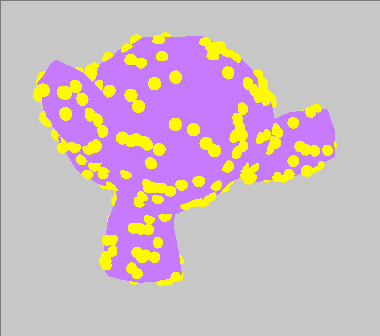
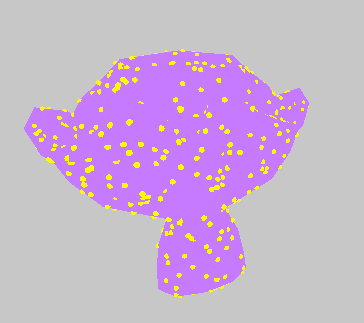
Documentation

Changed region(s): [[0.0604, 0.0929, 0.9066, 0.9288], [0.4835, 0.2477, 0.5137, 0.2786], [0.0, 0.0, 0.0302, 0.031]]

diff --git a/src/lib.rs b/src/lib.rs
@@ -1,48 +1,57 @@
 //! Given a target density, generate randomly sampled points on a mesh.
 //!
-//! This crate was built with Unity/C# bindings in mind. It's useful for sampling points for *static* meshes (i.e. not SkinnedMeshRenders).
+//! This crate was built with Unity/C# bindings in mind.
+//!
+//! Imagine, if you will, an animated human that is visually rendered with uniformly sampled points.
+//! This mesh needs to move dynamically, so that number and positions of the points need to change.
+//! The best way to do that is in a shader.
+//! This crate *doesn't* cover this use-case.
+//!
+//! *However,* suppose you want the animated human to walk in a room that is also rendered in uniformly sampled points.
+//! In that case, the room geometry is static.
+//! The sampled points never need to change.
+//! So, you could sample the points exactly once and use them later.
+//! That's what this crate is for.
 //!
 //! # Usage (native Rust)
 //!
 //! ```
 //! use tobj::{load_obj, GPU_LOAD_OPTIONS};
 //!
-//! use pincushion::sample_points_from_ppcm;
+//! use pincushion::{sample_points_from_ppm, Vertex, Triangle};
 //!
-//! fn get_obj(path: &str) -> (Vec<[f32; 3]>, Vec<[usize; 3]>) {
+//! fn get_obj(path: &str) -> (Vec<Vertex>, Vec<Triangle>) {
 //!     let obj = &load_obj(path, &GPU_LOAD_OPTIONS).unwrap().0[0].mesh;
-//!     let vertices = obj.positions.chunks_exact(3).map(|v| [v[0], v[1], v[2]]).collect::<Vec<[f32; 3]>>();
+//!     let vertices = obj.positions.chunks_exact(3).map(|v| [v[0], v[1], v[2]]).collect::<Vec<Vertex>>();
 //!     let triangles = obj.indices.chunks_exact(3).map(|triangle|
 //!         [triangle[0] as usize, triangle[1] as usize, triangle[2] as usize]
-//!     ).collect::<Vec<[usize; 3]>>();
+//!     ).collect::<Vec<Triangle>>();
 //!     (vertices, triangles)
 //! }
 //!
 //! fn main() {
 //!     let (vertices, triangles) = get_obj("tests/suzanne.obj");
 //!
-//!     // This, plus the volume, controls the number of points per centimeter.
-//!     // The volume of the mesh is assumed to be in meters squared.
-//!     let points_per_cm = 1.5;
+//!     // This, plus the volume, controls the number of points per square meter.
+//!     // The volume of the mesh is also assumed to be in square meters.
+//!     let points_per_m = 0.015;
 //!
 //!     // Sample the points.
-//!     let points = sample_points_from_ppcm(&vertices, &triangles, points_per_cm);
+//!     let points = sample_points_from_ppm(&vertices, &triangles, points_per_m);
 //! }
 //! ```
 //!
 //! # Usage (Unity)
 //!
-//! Add the C# scripts in this repo into your project. Then, add: `using Pincushion;`
+//! To add the codebase to your Unity project:
 //!
-//! To generate points, call `Vector3[] points = mesh.GetSampledPoints(pointsPerCm);` or `int size = mesh.GetSampledPoints(pointsPerCm, ref points);`.
+//! 1. Run: `cargo build --release --features ffi`
+//! 2. Copy into your project all .cs scripts in `cs/` plus the native library: `target/release/pincushion.so` (In Windows, it's `pincushion.dll`)
+//! 3. In your code, add: `using Pincushion;`
 //!
-//! The expected number of points is the product of the mesh volume and `pointsPerCm`.
-//! If you don't include `numPoints`, the output will match the expected number.
-//! If you do include `numPoints`, then `points.Length == numPoints`. This is the (slightly) faster option.
+//! To generate points, call `Vector3[] points = mesh.GetSampledPoints(pointsPerM);`
 //!
-//! To build a library that can be used in Unity/C#: `cargo build --release --features ffi`
-//!
-//! To generate C# native bindings: `cargo run --bin cs --features cs`
+//! Whenever the Rust codebase changes, the C# bindings must change as well. To do this: `cargo run --bin cs --features cs`
 //!
 //! # Example
 //!
@@ -60,8 +69,8 @@ pub type Vertex = [f32; 3];
 pub type Triangle = [usize; 3];
 
 /// - `vertices`: A slice of (x, y, z) vertices.
-/// - `triangles`: A vec of three indices of vertices.
-/// 
+/// - `triangles`: A slice of three indices of vertices.
+///
 /// Returns: The area of each triangle and the total area.
 pub fn get_areas(vertices: &[Vertex], triangles: &[Triangle]) -> (Vec<f32>, f32) {
     let mut areas = vec![0.0; triangles.len()];
@@ -70,10 +79,10 @@ pub fn get_areas(vertices: &[Vertex], triangles: &[Triangle]) -> (Vec<f32>, f32)
 }
 
 /// - `vertices`: A slice of (x, y, z) vertices.
-/// - `triangles`: A vec of three indices of vertices.
-/// - `areas`: A vec that will be filled with the areas of each triangle in `triangles`.
+/// - `triangles`: A slice of three indices of vertices.
+/// - `areas`: A slice that will be filled with the areas of each triangle in `triangles`.
 ///   This must be the same length as `triangles`.
-/// 
+///
 /// Returns: The total area.
 pub fn get_areas_in_place(vertices: &[Vertex], triangles: &[Triangle], areas: &mut [f32]) -> f32 {
     let mut total_area = 0.;
@@ -99,13 +108,13 @@ pub fn get_areas_in_place(vertices: &[Vertex], triangles: &[Triangle], areas: &m
 /// Returns: The volume of the mesh.
 #[cfg_attr(feature = "ffi", safer_ffi::ffi_export)]
 pub fn get_num_points(total_area: f32, points_per_m: f32) -> usize {
-    (total_area * points_per_m) as usize
+    (total_area / points_per_m) as usize
 }
 
 /// Sample points on a mesh, given a density of points.
 ///
 /// - `vertices`: A slice of (x, y, z) vertices.
-/// - `triangles`: A vec of three indices of vertices.
+/// - `triangles`: A slice of three indices of vertices.
 /// - `points_per_m`: The number of points per square meter.
 ///
 /// Returns: An vec of sampled points.
@@ -124,7 +133,7 @@ pub fn sample_points_from_ppm(
 /// Sample random points on the mesh.triangle_end_index
 ///
 /// - `vertices`: A slice of (x, y, z) vertices.
-/// - `triangles`: A vec of three indices of vertices.
+/// - `triangles`: A slice of three indices of vertices.
 /// - `areas`: The area of each triangle. See: [`get_areas(vertices, triangles)`] and [`get_areas_in_place(vertices, triangles, areas)`].
 /// - `total_area`: The total area.
 /// - `points`: A pre-defined slice of vertices that will be filled with points. The size can differ from `triangles` and `areas`.
@@ -222,22 +231,22 @@ fn magnitude(v: &Vertex) -> f32 {
 mod tests {
     use tobj::{load_obj, GPU_LOAD_OPTIONS};
 
-    use crate::sample_points_from_ppm;
+    use crate::{sample_points_from_ppm, Triangle, Vertex};
 
     #[test]
     fn test_sample_points() {
         let (vertices, triangles) = get_obj();
-        let points = sample_points_from_ppm(&vertices, &triangles, 0.01);
-        assert_eq!(points.len(), 259);
+        let points = sample_points_from_ppm(&vertices, &triangles, 0.015);
+        assert_eq!(points.len(), 831);
     }
 
-    fn get_obj() -> (Vec<[f32; 3]>, Vec<[usize; 3]>) {
+    fn get_obj() -> (Vec<Vertex>, Vec<Triangle>) {
         let obj = &load_obj("tests/suzanne.obj", &GPU_LOAD_OPTIONS).unwrap().0[0].mesh;
         let vertices = obj
             .positions
             .chunks_exact(3)
             .map(|v| [v[0], v[1], v[2]])
-            .collect::<Vec<[f32; 3]>>();
+            .collect::<Vec<Vertex>>();
         let triangles = obj
             .indices
             .chunks_exact(3)
@@ -248,7 +257,7 @@ mod tests {
                     triangle[2] as usize,
                 ]
             })
-            .collect::<Vec<[usize; 3]>>();
+            .collect::<Vec<Triangle>>();
         (vertices, triangles)
     }
 }

diff --git a/src/ffi.rs b/src/ffi.rs
@@ -2,8 +2,14 @@ use core::slice;
 
 use safer_ffi::ffi_export;
 
-use crate::{get_triangle_areas_in_place, sample_points as sample_points_native};
+use crate::{get_areas_in_place, sample_points as sample_points_native, Triangle, Vertex};
 
+/// - `vertices`: A flat vec of (x, y, z) vertices.
+/// - `triangles`: A flat vec of three indices of vertices.
+/// - `areas`: A vec that will be filled with the areas of each triangle in `triangles`.
+///   This must be the same length as `triangles.len() / 3`.
+///
+/// Returns: The total area.
 #[ffi_export]
 pub fn get_areas(
     vertices: &safer_ffi::Vec<f32>,
@@ -13,18 +19,20 @@ pub fn get_areas(
     unsafe {
         let vertices = ffi_vertices(vertices);
         let triangles = ffi_triangles(triangles);
-        get_triangle_areas_in_place(vertices, triangles, areas)
+        get_areas_in_place(vertices, triangles, areas)
     }
 }
 
 /// Sample random points on the mesh.
 ///
-/// - `vertices`: The vertices as a flat slice of coordinates.
-/// - `triangles`: The triangles as a flat slice of indices.
-/// - `points`: A pre-defined flat slice of coordinates.
+/// - `vertices`: A flat vec of (x, y, z) vertices.
+/// - `triangles`: A flat vec of three indices of vertices.
+/// - `areas`: The area of each triangle. See: [`get_areas(vertices, triangles)`] and [`get_areas_in_place(vertices, triangles, areas)`].
+/// - `total_area`: The total area.
+/// - `points`: A pre-defined slice of vertices that will be filled with points. The size can differ from `triangles` and `areas`.
 ///   This will be filled with the sampled pointsc.
 ///   This must be defined on the other side of the FFI boundary.
-///   To get the expected size of `points`, call `get_volume_ffi(vertices, triangles)` followed by `get_num_points_ffi(volume, points_per_cm)`
+///   To get the expected size of `points`, call `get_areas(vertices, triangles, areas)` followed by `get_num_points(total_area, points_per_m)`
 #[ffi_export]
 pub fn sample_points(
     vertices: &safer_ffi::Vec<f32>,
@@ -43,17 +51,17 @@ pub fn sample_points(
 
 /// Converts a flat array of vertex coordinates from a safer-ffi vec into a shaped slice of vertices.
 /// e.g.: `[x0, y0, z0, x1, y1, z1, ...]` into `[[x0, y0, z0], [x1, y1, z1], ...]`
-unsafe fn ffi_vertices(vertices: &safer_ffi::Vec<f32>) -> &[[f32; 3]] {
-    slice::from_raw_parts(vertices.as_ptr() as *const [f32; 3], vertices.len() / 3)
+unsafe fn ffi_vertices(vertices: &safer_ffi::Vec<f32>) -> &[Vertex] {
+    slice::from_raw_parts(vertices.as_ptr() as *const Vertex, vertices.len() / 3)
 }
 
 /// Converts a flat array of triangle indices from a safer-ffi vec into a shaped slice of triangles.
-unsafe fn ffi_triangles(triangles: &safer_ffi::Vec<usize>) -> &[[usize; 3]] {
-    slice::from_raw_parts(triangles.as_ptr() as *const [usize; 3], triangles.len() / 3)
+unsafe fn ffi_triangles(triangles: &safer_ffi::Vec<usize>) -> &[Triangle] {
+    slice::from_raw_parts(triangles.as_ptr() as *const Triangle, triangles.len() / 3)
 }
 
 /// Converts a flat array of vertex coordinates from a safer-ffi vec into a shaped slice of vertices.
 /// e.g.: `[x0, y0, z0, x1, y1, z1, ...]` into `[[x0, y0, z0], [x1, y1, z1], ...]`
-unsafe fn ffi_vertices_mut(vertices: &mut safer_ffi::Vec<f32>) -> &mut [[f32; 3]] {
-    slice::from_raw_parts_mut(vertices.as_mut_ptr() as *mut [f32; 3], vertices.len() / 3)
+unsafe fn ffi_vertices_mut(vertices: &mut safer_ffi::Vec<f32>) -> &mut [Vertex] {
+    slice::from_raw_parts_mut(vertices.as_mut_ptr() as *mut Vertex, vertices.len() / 3)
 }

diff --git a/examples/suzanne/src/main.rs b/examples/suzanne/src/main.rs
@@ -4,7 +4,7 @@ use macroquad::prelude::*;
 
 use tobj::{load_obj, GPU_LOAD_OPTIONS};
 
-use pincushion::sample_points_from_ppcm;
+use pincushion::{sample_points_from_ppm, Triangle, Vertex as PincushionVertex};
 
 #[macroquad::main("3D")]
 async fn main() {
@@ -27,7 +27,7 @@ async fn main() {
         .positions
         .chunks_exact(3)
         .map(|v| [v[0], v[1], v[2]])
-        .collect::<Vec<[f32; 3]>>();
+        .collect::<Vec<PincushionVertex>>();
     let triangles = obj
         .indices
         .chunks_exact(3)
@@ -38,9 +38,9 @@ async fn main() {
                 triangle[2] as usize,
             ]
         })
-        .collect::<Vec<[usize; 3]>>();
+        .collect::<Vec<Triangle>>();
     // Sample the points and convert to macroquad Vec3's.
-    let points = sample_points_from_ppcm(&vertices, &triangles, 0.015)
+    let points = sample_points_from_ppm(&vertices, &triangles, 0.015)
         .iter()
         .map(|point| vec3(point[0], point[1], point[2]))
         .collect::<Vec<Vec3>>();
